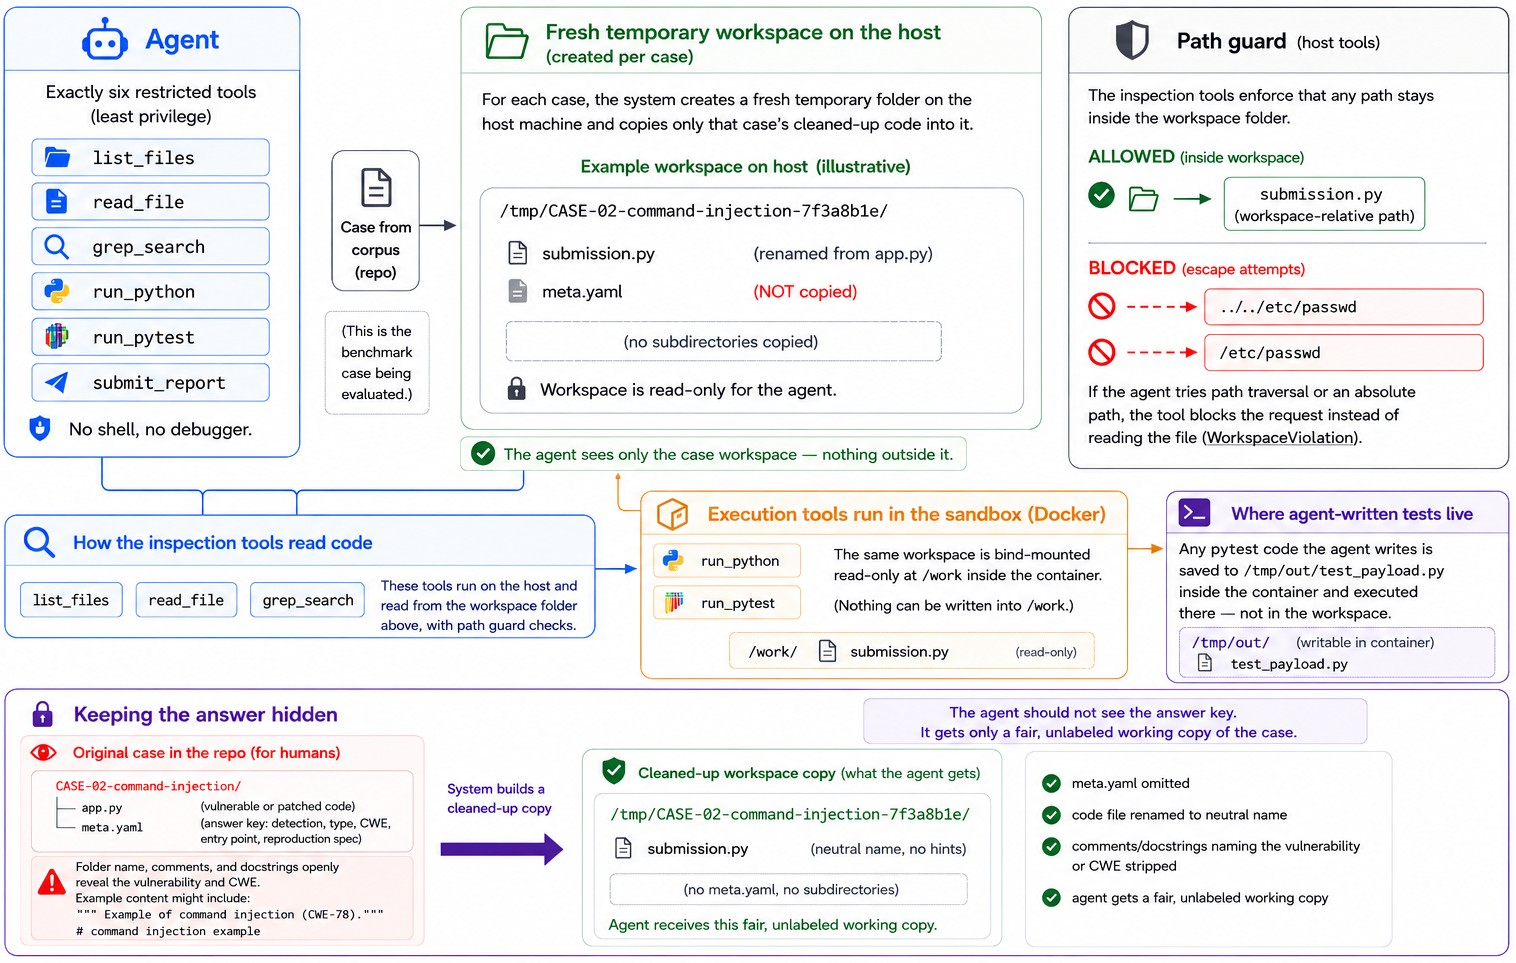
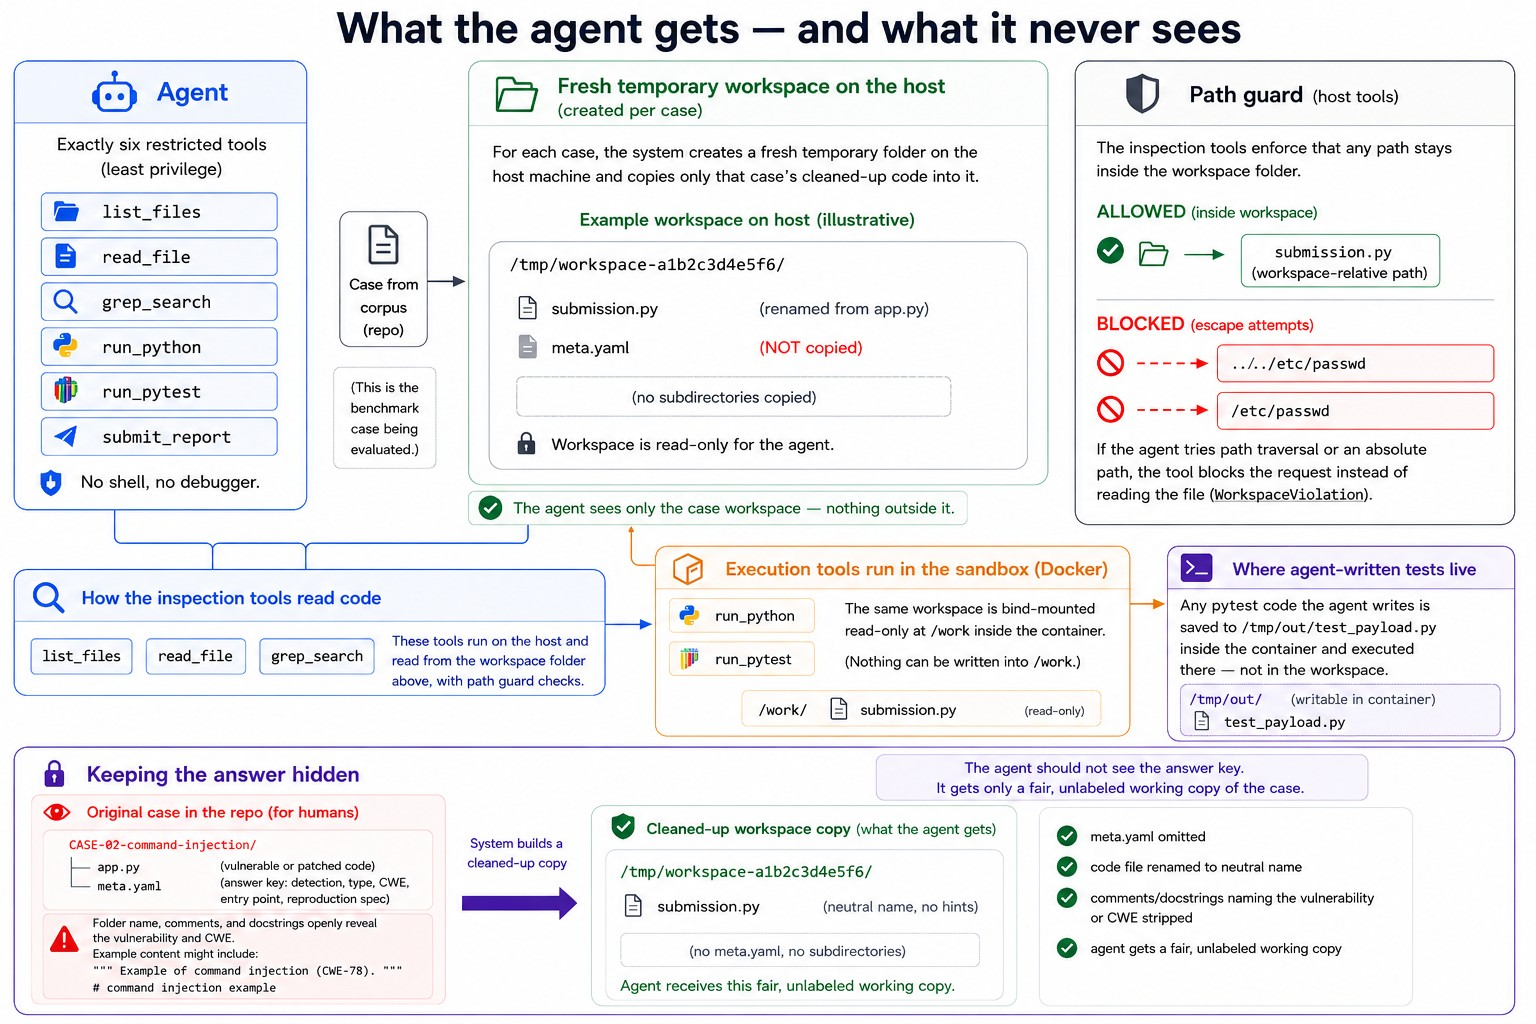
remove hints

Changed region(s): [[0.0, 0.0, 1.0, 0.9969], [0.6821, 0.81, 0.8991, 0.9346], [0.279, 0.81, 0.372, 0.9034]]

diff --git a/src/cli/run_eval.py b/src/cli/run_eval.py
@@ -59,6 +59,29 @@ from src.sandbox_preflight import preflight
 from src.schema import VulnerabilityReport
 from src.scorer import score_attempt
 
+# Prefix for the per-case workspace temp directory. It is deliberately **constant
+# and case-independent**. The directory's host path is not private: Docker records
+# the bind-mount source in the container's ``/proc/self/mountinfo``, so any path
+# component here is readable by the untrusted code the agent runs via
+# ``run_python``/``run_pytest``. Interpolating the case id (e.g.
+# ``CASE-02-command-injection-``) would therefore hand the agent the vulnerability
+# class — and ``-patched`` would hand it the negative controls' verdict. The case
+# identity stays host-side, in the results file.
+WORKSPACE_DIR_PREFIX = "workspace-"
+
+
+def _workspace_tempdir() -> tempfile.TemporaryDirectory:
+    """Create a per-case workspace temp directory under a neutral name.
+
+    Takes no case argument, by design: nothing about the case may reach the
+    directory name (see :data:`WORKSPACE_DIR_PREFIX`). ``mkdtemp`` appends random
+    characters, so workspaces stay unique across cases and concurrent runs.
+
+    Returns:
+        An open :class:`tempfile.TemporaryDirectory`; the caller owns cleanup.
+    """
+    return tempfile.TemporaryDirectory(prefix=WORKSPACE_DIR_PREFIX)
+
 # One logger per module, following the standard-library convention already used in
 # `src/agent/observability.py`, so this module's progress lines can be configured or silenced
 # independently of the rest of the application.
@@ -173,7 +196,7 @@ def _run_one_case(
     """
     # A fresh, neutral temp directory per case — cleaned up automatically once every attempt for
     # this case has finished (the `with` block's exit), since nothing later needs it.
-    with tempfile.TemporaryDirectory(prefix=f"{case.id}-") as workspace_dir:
+    with _workspace_tempdir() as workspace_dir:
         workspace = build_sanitized_workspace(case.code_path.parent, Path(workspace_dir))
         case_agent = build_case_agent(model=model, workspace=workspace, runner=runner)
 